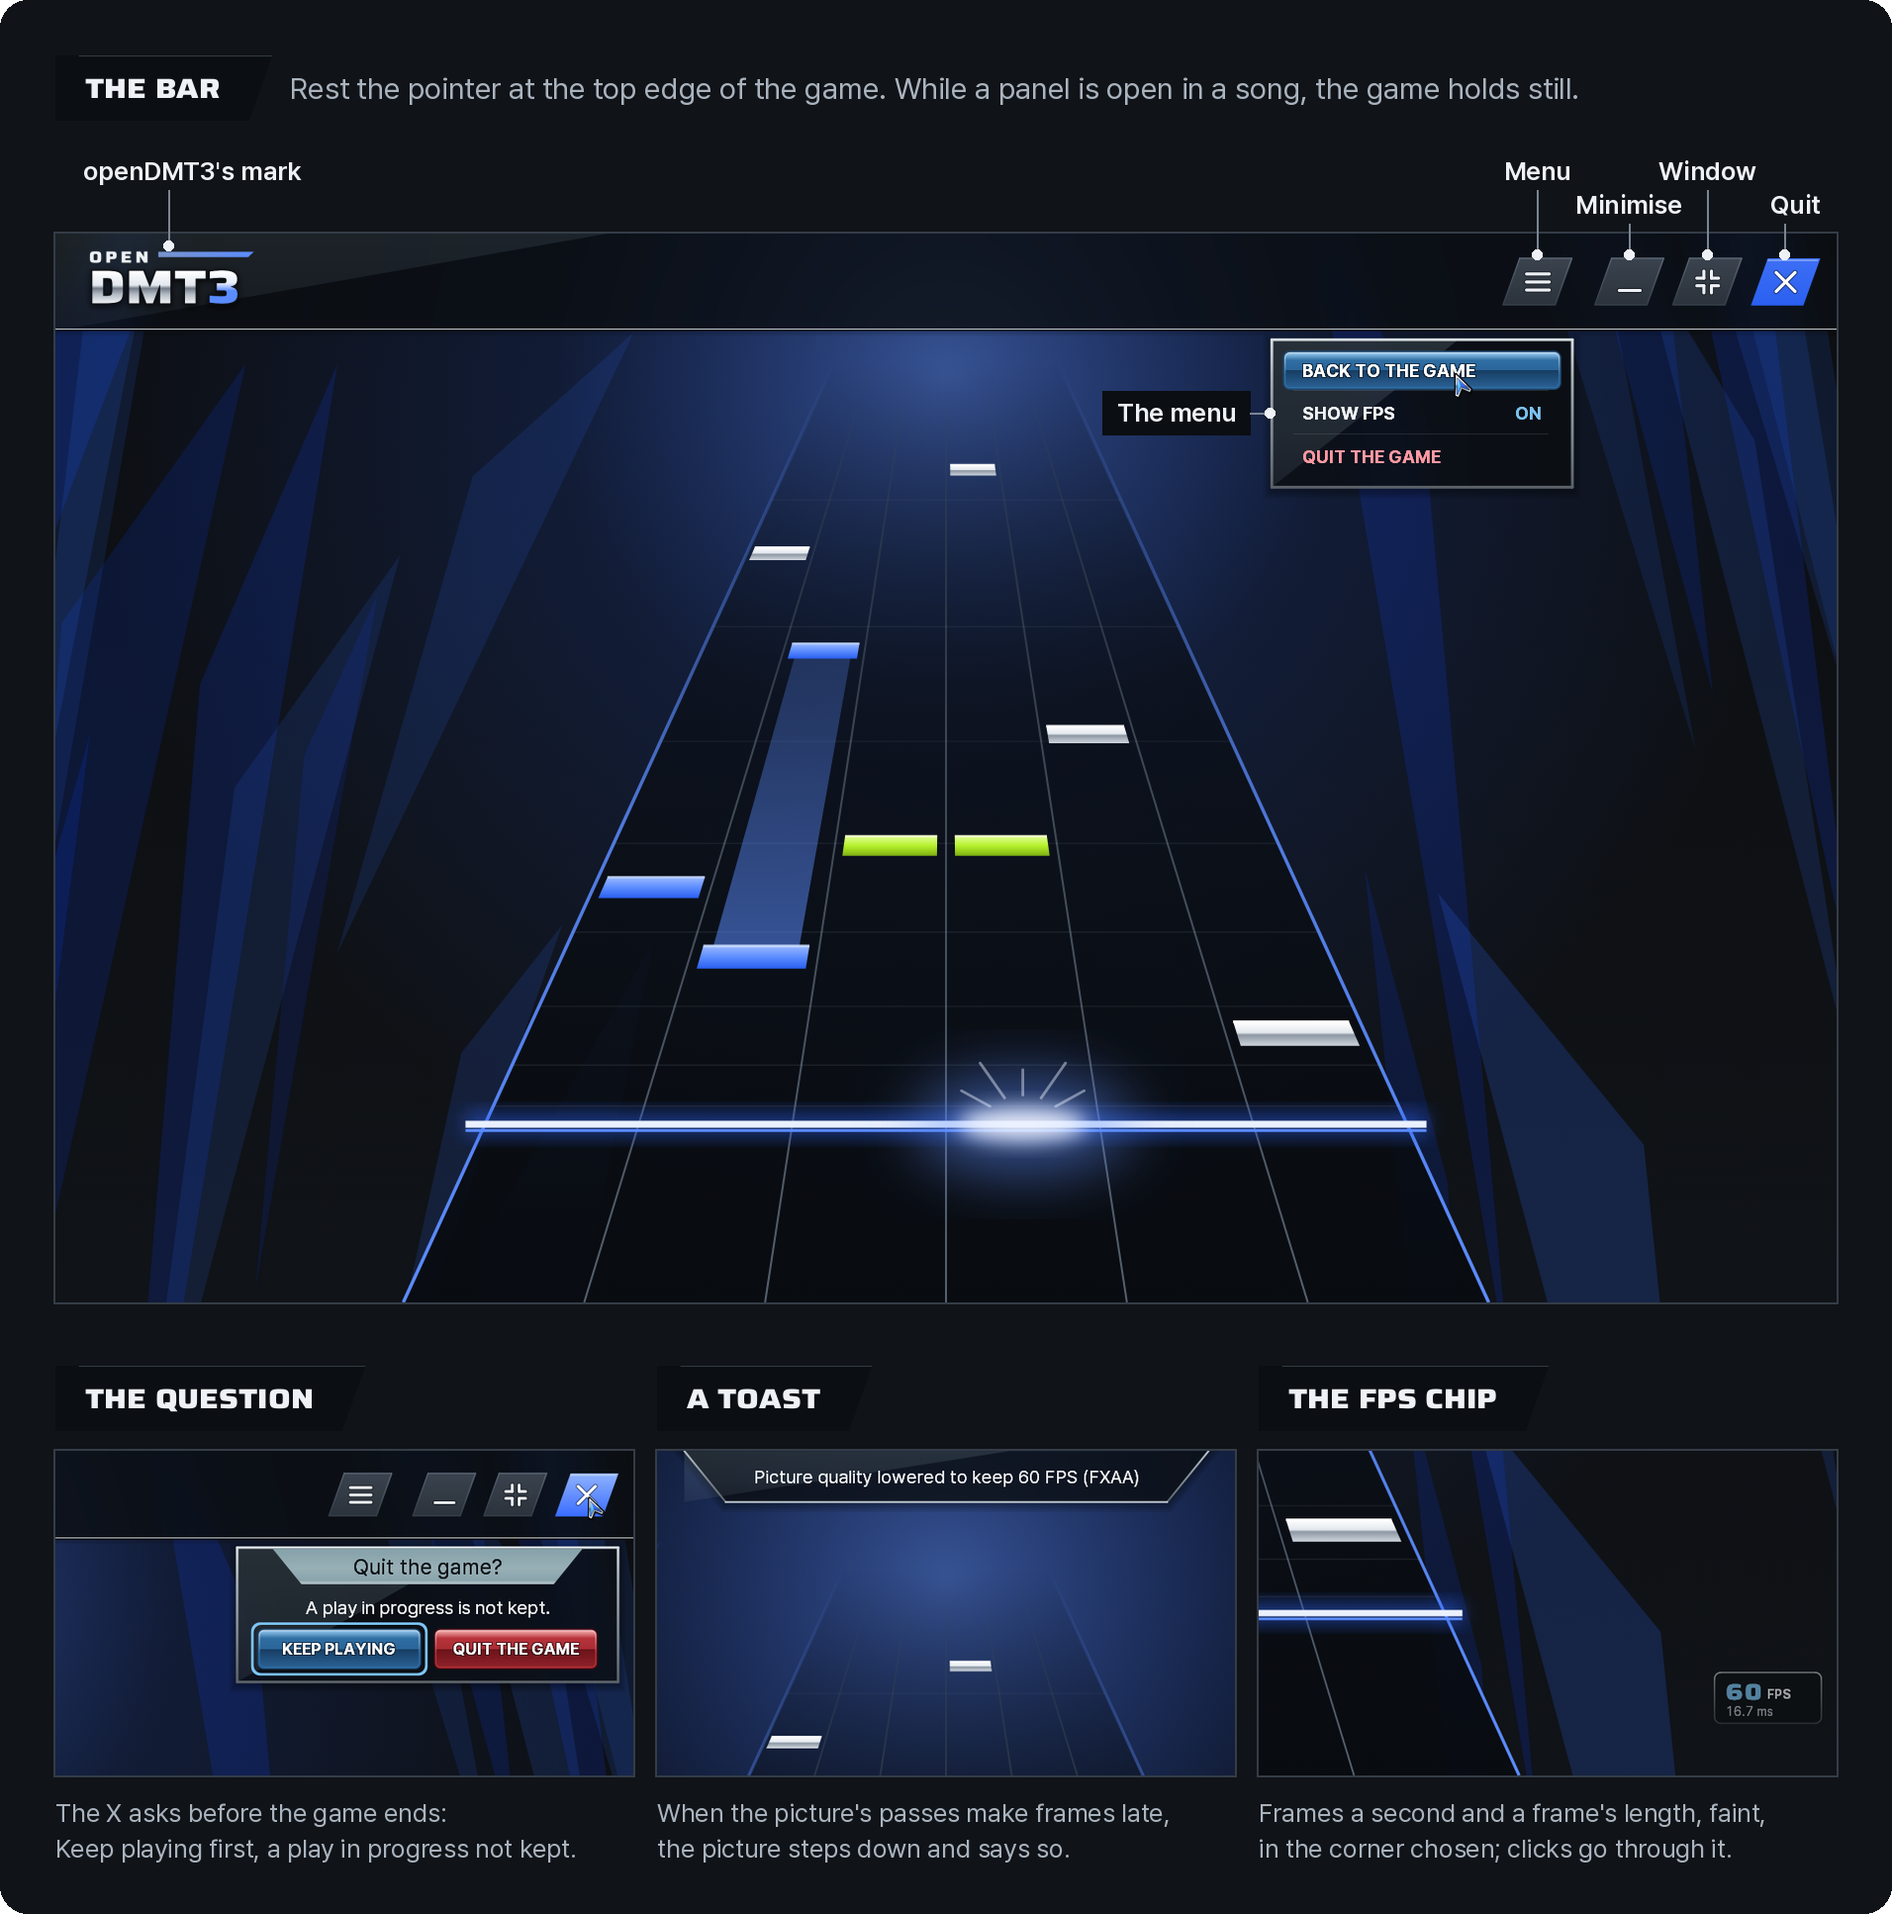
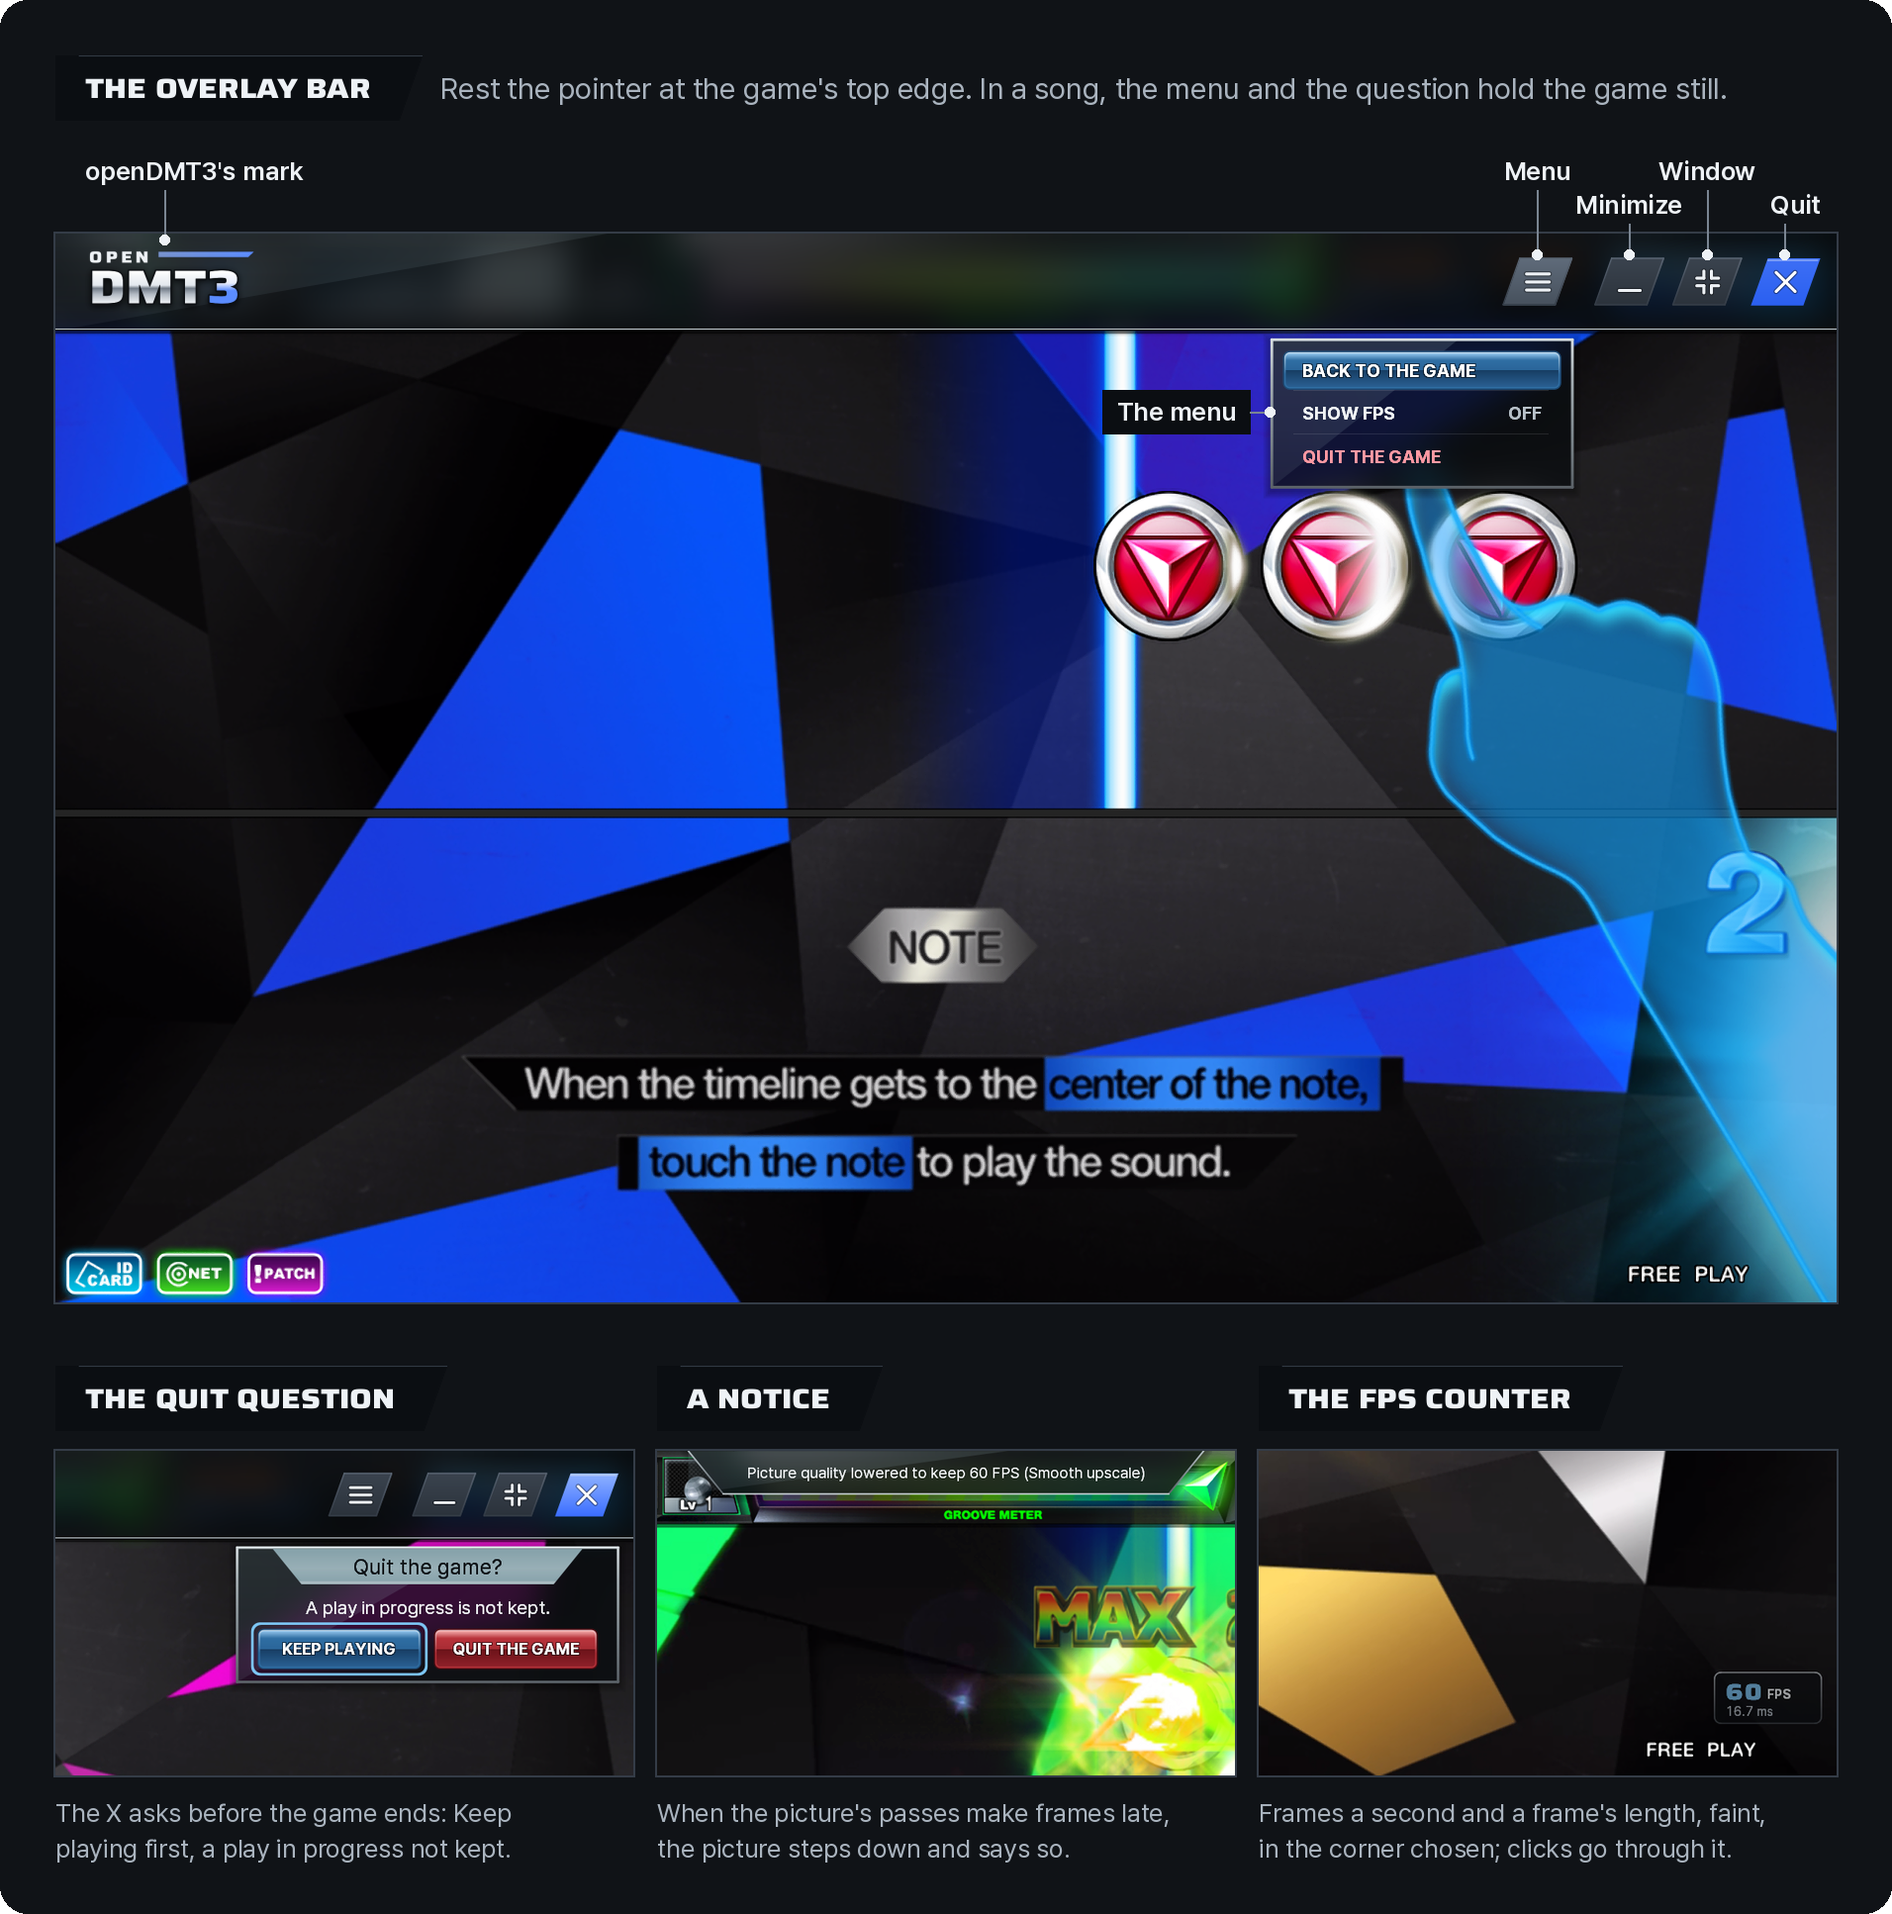
The in-game picture is the real game: openDMT3's overlay over the game's own tutorial, not a drawn stage

diff --git a/docs/install.md b/docs/install.md
@@ -109,7 +109,7 @@ and metal frame, its glossy buttons) on an opaque frosted glass, and in the laun
 the middle of the game, where the notes come, and no key of the keyboard brings any of them:
 
 <p align="center">
-  <img src="images/ingame.png" alt="openDMT3's own parts over a song, drawn by openDMT3's code over a made-up stage of lanes and notes, none of it the game's. The bar across the top: openDMT3's mark at its left, and at its right the menu, minimise, back to a window, and the X. The menu hangs under its chip: BACK TO THE GAME, SHOW FPS with ON, QUIT THE GAME in red. Under it, three pieces: the question under the X, Quit the game?, with A play in progress is not kept., KEEP PLAYING and QUIT THE GAME; a toast hanging from the top edge, Picture quality lowered to keep 60 FPS (FXAA); and the FPS chip in the bottom right corner, 60 FPS over 16.7 ms" width="100%">
+  <img src="images/ingame.png" alt="openDMT3's in-game overlay over the game's own tutorial, in frames captured under Wine: the overlay bar at the game's top edge with openDMT3's mark at its left and, at its right, the menu (open, with Back to the game, Show FPS and Quit the game), minimise, window and quit; under it the quit question, a notice that the picture stepped down to keep 60 FPS, and the FPS counter in its corner" width="100%">
 </p>
 
 - **The bar.** Move the pointer to the very top edge of the game, or onto the small tab at its top center, and let it

diff --git a/README.md b/README.md
@@ -97,7 +97,7 @@ runs [in the launcher](docs/server.md#in-the-launcher) or [with Python](docs/ser
 ## What it does
 
 <p align="center">
-  <img src="docs/images/ingame.png" alt="openDMT3's own parts over a song, drawn by openDMT3's code over a made-up stage of lanes and notes, none of it the game's. The bar across the top: openDMT3's mark at its left, and at its right the menu, minimise, back to a window, and the X. The menu hangs under its chip: BACK TO THE GAME, SHOW FPS with ON, QUIT THE GAME in red. Under it, three pieces: the question under the X, Quit the game?, with A play in progress is not kept., KEEP PLAYING and QUIT THE GAME; a toast hanging from the top edge, Picture quality lowered to keep 60 FPS (FXAA); and the FPS chip in the bottom right corner, 60 FPS over 16.7 ms" width="100%">
+  <img src="docs/images/ingame.png" alt="openDMT3's in-game overlay over the game's own tutorial, in frames captured under Wine: the overlay bar at the game's top edge with openDMT3's mark at its left and, at its right, the menu (open, with Back to the game, Show FPS and Quit the game), minimise, window and quit; under it the quit question, a notice that the picture stepped down to keep 60 FPS, and the FPS counter in its corner" width="100%">
 </p>
 
 - **Plays your client data as it is.** It only reads the client data. What the game needs on a PC is made in a

diff --git a/docs/architecture.md b/docs/architecture.md
@@ -232,7 +232,7 @@ the real ones.
 ### The layer's parts and their input
 
 <p align="center">
-  <img src="images/ingame.png" alt="The in-game layer's parts as its own code draws them, over a made-up stage of lanes and notes, none of it the game's: the bar with openDMT3's mark, the menu, minimise, back to a window and the X; the menu under its chip; the question under the X with its line during a song; the safety net's toast; the FPS chip in the bottom right corner" width="100%">
+  <img src="images/ingame.png" alt="openDMT3's in-game overlay over the game's own tutorial, in frames captured under Wine: the overlay bar at the game's top edge with openDMT3's mark at its left and, at its right, the menu (open, with Back to the game, Show FPS and Quit the game), minimise, window and quit; under it the quit question, a notice that the picture stepped down to keep 60 FPS, and the FPS counter in its corner" width="100%">
 </p>
 
 - **The bar** comes when the pointer, moved to the game's very top edge or onto the mark at its top centre with no
